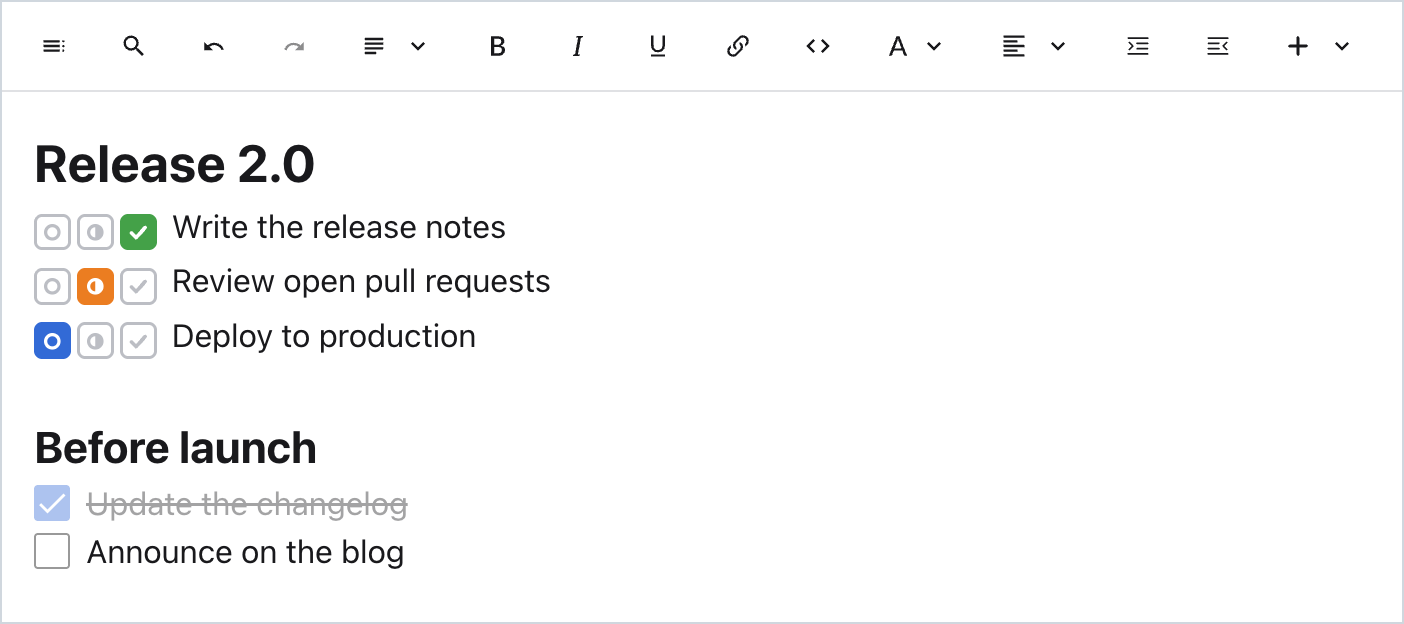
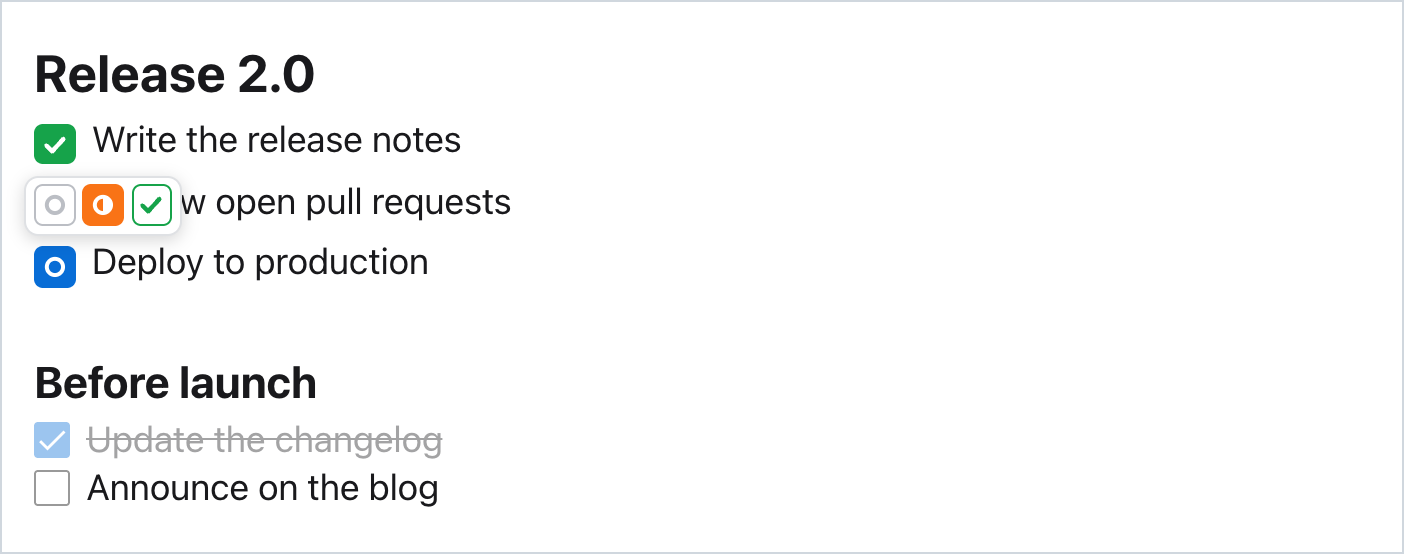
feat: show only the current task status, pick from all three on hover
Task lines show a single box for the current status. Hovering it shows
all three on top of the line to pick from; on touch screens, which
have no hover, tapping it does the same. The picker overlays the text,
so lines don't shift, and closes after a pick or a tap elsewhere.

diff --git a/src/extensions/TaskStatus/TaskStatusComponent.tsx b/src/extensions/TaskStatus/TaskStatusComponent.tsx
@@ -1,9 +1,10 @@
-import { CSSProperties, MouseEvent } from 'react'
+import { CSSProperties, MouseEvent, useEffect, useRef, useState } from 'react'
 import { useLexicalComposerContext } from '@lexical/react/LexicalComposerContext'
 import { useLexicalEditable } from '@lexical/react/useLexicalEditable'
 import { $getNodeByKey, NodeKey } from 'lexical'
+import { classNames } from '@standardnotes/utils'
 import { $isTaskStatusNode } from './TaskStatusNode'
-import { TaskStatus, TaskStatuses } from './TaskStatuses'
+import { TaskStatus, TaskStatusDefinition, TaskStatuses, getTaskStatusDefinition } from './TaskStatuses'
 import './TaskStatus.scss'
 
 function StatusIcon({ status }: { status: TaskStatus }) {
@@ -37,13 +38,65 @@ function StatusIcon({ status }: { status: TaskStatus }) {
   }
 }
 
+const colorStyle = (definition: TaskStatusDefinition) =>
+  ({ '--task-status-color': definition.color }) as CSSProperties
+
+// Keep the caret where it is; clicks only change the status.
+const keepEditorFocus = (event: MouseEvent) => event.preventDefault()
+
+/**
+ * Shows the current status. Hovering it (or tapping it on touch screens, which have no hover)
+ * shows all three statuses on top of the line to pick from.
+ */
 export default function TaskStatusComponent({ nodeKey, status }: { nodeKey: NodeKey; status: TaskStatus }) {
   const [editor] = useLexicalComposerContext()
   const isEditable = useLexicalEditable()
+  const rootRef = useRef<HTMLSpanElement>(null)
+  /** Opened by a tap. Hover opening is pure CSS (see TaskStatus.scss). */
+  const [isOpen, setIsOpen] = useState(false)
+  /** Set after picking, so the picker closes even though the mouse is still over it. */
+  const [justPicked, setJustPicked] = useState(false)
+  const current = getTaskStatusDefinition(status)
+
+  useEffect(() => {
+    if (!isOpen) {
+      return
+    }
+    const closeOnOutsidePointer = (event: PointerEvent) => {
+      if (!rootRef.current?.contains(event.target as Node)) {
+        setIsOpen(false)
+      }
+    }
+    const closeOnEscape = (event: KeyboardEvent) => {
+      if (event.key === 'Escape') {
+        setIsOpen(false)
+      }
+    }
+    document.addEventListener('pointerdown', closeOnOutsidePointer, true)
+    document.addEventListener('keydown', closeOnEscape, true)
+    return () => {
+      document.removeEventListener('pointerdown', closeOnOutsidePointer, true)
+      document.removeEventListener('keydown', closeOnEscape, true)
+    }
+  }, [isOpen])
+
+  useEffect(() => {
+    if (!isEditable) {
+      setIsOpen(false)
+    }
+  }, [isEditable])
+
+  const togglePicker = (event: MouseEvent) => {
+    event.preventDefault()
+    event.stopPropagation()
+    setIsOpen((open) => !open)
+  }
 
   const selectStatus = (event: MouseEvent, next: TaskStatus) => {
     event.preventDefault()
     event.stopPropagation()
+    setIsOpen(false)
+    setJustPicked(true)
     if (!isEditable || next === status) {
       return
     }
@@ -56,28 +109,50 @@ export default function TaskStatusComponent({ nodeKey, status }: { nodeKey: Node
   }
 
   return (
-    <span className="task-status" role="radiogroup" aria-label="Task status">
-      {TaskStatuses.map((definition) => {
-        const isSelected = definition.id === status
-        return (
-          <button
-            key={definition.id}
-            type="button"
-            role="radio"
-            aria-checked={isSelected}
-            aria-label={definition.label}
-            title={definition.label}
-            disabled={!isEditable}
-            className="task-status__box"
-            style={{ '--task-status-color': definition.color } as CSSProperties}
-            // Keep the caret where it is; the click only changes the status.
-            onMouseDown={(event) => event.preventDefault()}
-            onClick={(event) => selectStatus(event, definition.id)}
-          >
-            <StatusIcon status={definition.id} />
-          </button>
-        )
-      })}
+    <span
+      ref={rootRef}
+      className={classNames(
+        'task-status',
+        isOpen && 'task-status--open',
+        justPicked && 'task-status--picked',
+        !isEditable && 'task-status--readonly',
+      )}
+      onMouseLeave={() => setJustPicked(false)}
+    >
+      <button
+        type="button"
+        className="task-status__box is-selected"
+        aria-label={`Task status: ${current.label}`}
+        aria-haspopup="true"
+        aria-expanded={isOpen}
+        title={current.label}
+        disabled={!isEditable}
+        style={colorStyle(current)}
+        onMouseDown={keepEditorFocus}
+        onClick={togglePicker}
+      >
+        <StatusIcon status={status} />
+      </button>
+      {isEditable && (
+        <span className="task-status__picker" role="radiogroup" aria-label="Task status">
+          {TaskStatuses.map((definition) => (
+            <button
+              key={definition.id}
+              type="button"
+              role="radio"
+              aria-checked={definition.id === status}
+              aria-label={definition.label}
+              title={definition.label}
+              className={classNames('task-status__box', definition.id === status && 'is-selected')}
+              style={colorStyle(definition)}
+              onMouseDown={keepEditorFocus}
+              onClick={(event) => selectStatus(event, definition.id)}
+            >
+              <StatusIcon status={definition.id} />
+            </button>
+          ))}
+        </span>
+      )}
     </span>
   )
 }

diff --git a/src/extensions/TaskStatus/TaskStatus.scss b/src/extensions/TaskStatus/TaskStatus.scss
@@ -1,6 +1,9 @@
 // Sizes are in em so the control scales with the editor font size.
-// Width of the boxes plus gaps and margin: 3 × 1.15em + 2 × 0.2em + 0.45em.
-$task-status-width: 4.3em;
+$box-size: 1.15em;
+$gap: 0.2em;
+$picker-padding: 0.2em;
+// Width of the status box plus the space after it.
+$task-status-width: 1.6em;
 
 .task-status-node {
   display: inline-block;
@@ -10,7 +13,7 @@ $task-status-width: 4.3em;
   user-select: none;
 }
 
-// Hanging indent, like a checklist item: wrapped lines line up with the text, not with the boxes.
+// Hanging indent, like a checklist item: wrapped lines line up with the text, not with the box.
 // Margin rather than padding so Lexical's indentation (padding-inline-start) still works.
 :is(p, h1, h2, h3, h4, h5, h6):has(> .task-status-node:first-child) {
   margin-left: $task-status-width;
@@ -18,16 +21,44 @@ $task-status-width: 4.3em;
 }
 
 .task-status {
+  position: relative;
   display: inline-flex;
-  gap: 0.2em;
+}
+
+// All three statuses, drawn over the line so the text doesn't move. Its first box sits exactly
+// on top of the current status box.
+.task-status__picker {
+  position: absolute;
+  z-index: 2;
+  top: calc(-#{$picker-padding} - 1px);
+  left: calc(-#{$picker-padding} - 1px);
+  display: none;
+  gap: $gap;
+  padding: $picker-padding;
+  border: 1px solid var(--sn-stylekit-border-color);
+  border-radius: 0.4em;
+  background-color: var(--sn-stylekit-background-color);
+  box-shadow: 0 2px 8px rgba(0, 0, 0, 0.16);
+}
+
+// Mouse and trackpad: open on hover. Touch screens have no hover; a tap opens it (.task-status--open).
+@media (hover: hover) {
+  .task-status:not(.task-status--readonly):not(.task-status--picked):hover .task-status__picker {
+    display: inline-flex;
+  }
+}
+
+.task-status--open .task-status__picker {
+  display: inline-flex;
 }
 
 .task-status__box {
   display: inline-flex;
+  flex-shrink: 0;
   align-items: center;
   justify-content: center;
-  width: 1.15em;
-  height: 1.15em;
+  width: $box-size;
+  height: $box-size;
   padding: 0;
   border: 1.5px solid var(--sn-stylekit-passive-color-2);
   border-radius: 0.25em;
@@ -44,12 +75,12 @@ $task-status-width: 4.3em;
     height: 80%;
   }
 
-  &:hover:not(:disabled):not([aria-checked='true']) {
+  &:hover:not(:disabled):not(.is-selected) {
     border-color: var(--task-status-color);
     color: var(--task-status-color);
   }
 
-  &[aria-checked='true'] {
+  &.is-selected {
     border-color: var(--task-status-color);
     background-color: var(--task-status-color);
     color: #fff;

diff --git a/README.md b/README.md
@@ -2,7 +2,7 @@
 
 The **Super** rich-text editor from [Standard Notes](https://standardnotes.com), packaged as a custom editor plugin, with extra blocks on top. Notes are stored in the same format as built-in Super notes.
 
-<img src="docs/screenshot.png" alt="Super Extended: a note with task status lines and a checklist" width="700">
+<img src="docs/screenshot.png" alt="Super Extended: a note with task status lines, one showing the status picker, and a checklist" width="700">
 
 Not affiliated with or endorsed by Standard Notes.
 
@@ -21,12 +21,12 @@ Everything from Super: the formatting toolbar, the `/` block menu, Markdown shor
 
 ### Task Status
 
-Three boxes at the start of a line: **To do** (blue), **In progress** (orange) and **Done** (green). The selected box is filled with its color and the other two are gray. Click a box to change the status. Task lines work like checklist items:
+A status box at the start of a line: **To do** (blue), **In progress** (orange) or **Done** (green). Hover over it to show all three and click the one you want. On phones, tap it instead. Task lines work like checklist items:
 
 - Type `][` and a space at the start of a line, the same way `[]` and a space makes a checkbox. You can also type `/task`, or use the toolbar's block menu → **Task Status** to convert the current line or every selected line.
 - Press Enter to start the next task (To do). Enter at the start of a task adds an empty task above it. Enter on an empty task ends the list.
-- The boxes stay at the start of the line: the cursor can't go in front of them, and long text wraps under the text rather than under the boxes.
-- Backspace right after the boxes turns the line back into normal text.
+- The status stays at the start of the line: the cursor can't go in front of it, and long text wraps under the text rather than under the box.
+- Backspace right after the status turns the line back into normal text.
 - Works in paragraphs, headings, quotes, list items, table cells and Daily blocks.
 - Markdown preview and copy as plain text show the status as `[ ]`, `[/]` or `[x]`. Markdown lines that start with `][ ` become task lines when a Markdown note is opened.
 
